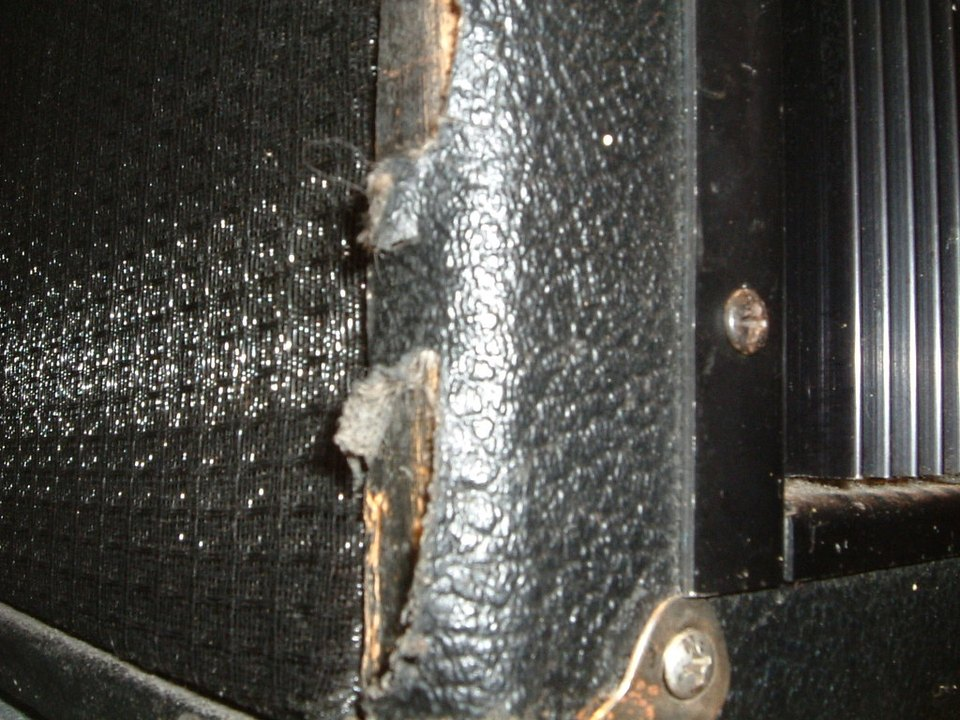
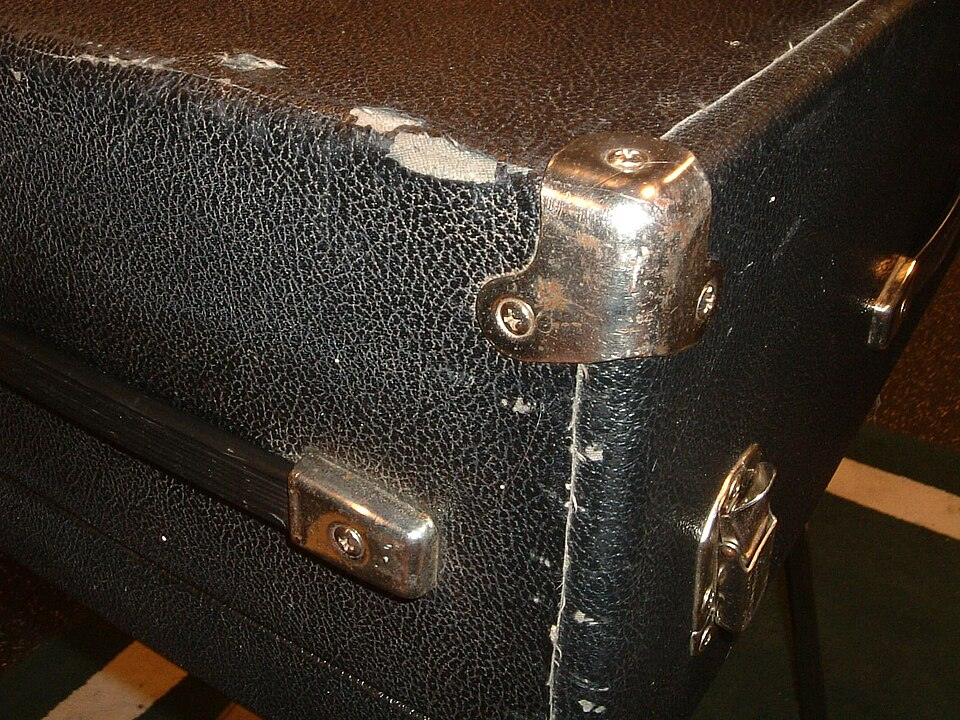
Restyle five music: tolex, grille cloth, wound string, plectrum, gaffer tape

diff --git a/data.js b/data.js
@@ -4681,40 +4681,45 @@ window.MATERIALS = [
 },
 {
   id: "tolex", cat: "music", name: "Tolex",
-  sub: "grained vinyl on a cloth backing", img: "tolex",
-  hook: "The covering on a guitar amplifier is a sheet of PVC on a woven backing, embossed with a grain — levant, bronco, elephant — and contact-cemented over the plywood with the corners folded like a parcel. It is there because it is cheap, because it wipes clean, and because it hides every joint and every screw head in a box that was built in an afternoon. It is also the part that shows the miles: the vinyl is thinnest where it was stretched round a corner, so the wear starts at the corners and the handles, and a well-played amplifier ends up with the backing cloth showing through.",
+  sub: "grained vinyl on a cloth backing", img: "tolex", extra: ["tolex2", "tolex3"],
+  hook: "PVC on a woven backing, embossed with a grain and contact-cemented over the plywood with the corners folded like a parcel. Cheap, wipeable, and it hides every joint and screw head in a box built in an afternoon.",
+  more: "A PVC skin a few tenths of a millimetre thick is fused to a cotton scrim and embossed while hot: levant, bronco, elephant, sparkle. The cabinet maker cements both faces, lays the sheet from the middle out, slits and folds the corners like wrapping paper and tucks the edges under the baffle. The costs: the vinyl is thinnest where it stretched round a corner, so the wear starts at the corners and the handle and a gigged amplifier ends up with the scrim showing; plasticiser migrates and old tolex goes stiff, shrinks at the seams and takes a tacky bloom; a knock that would dent bare plywood tears it instead; the cement lets go in a hot van; and a recover is a strip-and-redo job few bother with, which is why worn tolex became a look.",
   stats: [["Build", "PVC skin on woven backing"], ["Fitted", "contact cement, corners folded"], ["Wears", "at corners first, where it stretched"]],
   uses: "Guitar and bass amplifier cabinets, keyboard and speaker cabinets, case coverings.",
   link: "https://en.wikipedia.org/wiki/Tolex"
 },
 {
   id: "grillecloth", cat: "music", name: "Grille cloth",
-  sub: "open-woven cotton, rayon or metallised yarn", img: "grillecloth",
-  hook: "A loudspeaker grille cloth has one acoustic requirement — that air can pass through it without noticing — and one visual one, that the driver behind it cannot be seen. Those pull in opposite directions, which is why the classics are loose weaves of cotton or rayon in dark colours, often with a metallic thread for sparkle: salt and pepper, wheat, oxford, gold. It has to be stretched taut and kept that way, because a slack cloth flutters against the baffle and buzzes on bass notes. Smoke and dust fill the weave over the years, and a clogged cloth is a cloth that resists airflow.",
+  sub: "open-woven cotton, rayon or metallised yarn", img: "grillecloth", extra: ["grillecloth2", "grillecloth3"],
+  hook: "One acoustic requirement, that air passes through unnoticed, and one visual one, that the driver cannot be seen. They pull opposite ways, which is why the classics are loose dark weaves with a glint of metal thread.",
+  more: "A loose weave of cotton, rayon or polyester, dyed dark, often with a wrapped metallic yarn, in patterns with names: salt and pepper, wheat, oxford, Vox diamond, Fender gold. It is stretched over a frame or the baffle and stapled under tension; a good cloth is nearly transparent on a meter and opaque to the eye. The costs: a slack cloth flutters against the baffle and buzzes on bass notes, and cloth sags with age and damp; smoke and dust fill the weave until it resists the air it was meant to ignore; the metallic yarns tarnish; a tear cannot be mended invisibly, so the patterns are reissued to keep old amplifiers original; and a loose weave is no protection, so a boot or a mic stand goes straight through to the cone.",
   stats: [["Needs", "low airflow resistance, high opacity"], ["Stretched", "taut, or it buzzes"], ["Clogs", "with smoke and dust"]],
   uses: "Amplifier and hi-fi speaker grilles, organ and radio fronts, acoustic panel facings.",
   link: "https://en.wikipedia.org/wiki/Guitar_amplifier"
 },
 {
   id: "woundstring", cat: "music", name: "Wound string",
-  sub: "a hexagonal steel core under a spun wrap", img: "woundstring",
-  hook: "A thick plain wire at pitch is stiff, and a stiff string sounds sharp in its upper partials and hurts to bend. So a bass string is built: a hexagonal high-carbon steel core carries all the tension, and a round wrap wire is spun over it to add mass without adding stiffness. The hexagon matters — its corners bite into the wrap so the winding cannot creep along the core when the string is bent or cut. The wrap alloy is the voice: phosphor bronze for acoustic warmth, nickel-plated steel for output under a magnetic pickup, pure nickel for something softer, flattened ribbon for players who want no finger noise.",
+  sub: "a hexagonal steel core under a spun wrap", img: "woundstring", extra: ["woundstring2", "woundstring3"],
+  hook: "A thick plain wire at pitch is stiff, sounds sharp in its partials and hurts to bend. So a bass string is built: a hexagonal steel core carries the tension, and a wrap spun over it adds mass without stiffness.",
+  more: "A steel core, drawn hexagonal, spins while a wrap wire is laid on under tension, turn against turn; the corners bite into the wrap so it cannot creep when the string is bent or cut, and the wrap alloy is the voice: phosphor bronze for acoustic warmth, nickel-plated steel for output under a magnetic pickup, pure nickel for softer, flat ribbon for no finger noise, copper for a piano bass. The costs: the wrap is a spring of thousands of turns and anything that gets between them stays, so sweat and oxide deaden a roundwound in weeks while a plain string plays on; a flatwound lasts for years and sounds like it; a kink in the core is a break waiting to happen; and tension is set by core and wrap together, so the same gauge from two makers feels different.",
   stats: [["Core", "hexagonal, carries all the tension"], ["Wrap", "phosphor bronze, nickel, or flat ribbon"], ["Why wound", "mass without stiffness"]],
   uses: "Guitar, bass and piano strings, harp and orchestral bass strings.",
   link: "https://en.wikipedia.org/wiki/String_(music)"
 },
 {
   id: "pick", cat: "music", name: "Plectrum",
-  sub: "celluloid, acetal, nylon or Ultem", img: "pick",
-  hook: "The thing that actually excites the string is a sliver of plastic, and which plastic is audible. Celluloid, the old tortoiseshell imitation, is bright and a bit clicky and wears away visibly in a few gigs. Acetal is slick and rounder. Nylon grips damp fingers and flexes, so it softens the attack. Ultem and the glass-filled stiff plastics barely flex at all and sound loud and sharp. Thickness does the rest: half a millimetre bends away from the string and spreads the transient, a millimetre and a half transfers it whole. The edge finish matters as much as the material, which is why players sand them.",
+  sub: "celluloid, acetal, nylon or Ultem", img: "pick", extra: ["pick2", "pick3"],
+  hook: "What actually excites the string is a sliver of plastic, and which plastic is audible. Celluloid is bright and clicky and wears away in a few gigs, nylon flexes and softens the attack, Ultem barely flexes at all.",
+  more: "A sheet of plastic is punched to shape and the edge tumbled or bevelled: celluloid, the old imitation of tortoiseshell and nearly the last celluloid still made; acetal, which Dunlop colour-codes by gauge as Tortex; nylon, which grips a damp hand; Ultem and glass-filled plastics for hitting the string hard. Thickness does the rest: half a millimetre bends away and spreads the transient, a millimetre and a half transfers it whole, and the bevel sets the click. The costs: celluloid wears visibly in hours, warps, and is nitrate film by another name; nylon goes slick with sweat; the stiff plastics chip; thick picks round a strummed chord and thin ones mush a picked line; and most of them end up in the sofa, which is why they are sold by the gross.",
   stats: [["Materials", "celluloid, acetal, nylon, Ultem"], ["Gauge", "0.4 mm flexes, 1.5 mm does not"], ["Also voiced", "by the bevel on the edge"]],
   uses: "Guitar, bass, mandolin and banjo picks; harpsichord jacks; plucked zithers.",
   link: "https://en.wikipedia.org/wiki/Guitar_pick"
 },
 {
   id: "gaffer", cat: "music", name: "Gaffer tape",
-  sub: "matte cloth scrim, synthetic rubber adhesive", img: "gaffer",
-  hook: "A cotton or polyester scrim coated matte black and backed with a synthetic rubber adhesive, built around three stage requirements. It tears straight by hand in both directions, so one hand can work; it does not reflect a spotlight, because anything shiny on a floor becomes a highlight; and it comes up without the baked-on film that duct tape leaves, because the adhesive is chosen to release rather than to hold forever. The price of all that is that it is not waterproof — duct tape has a polyethylene skin and gaffer tape does not — and that it costs several times as much per roll.",
+  sub: "matte cloth scrim, synthetic rubber adhesive", img: "gaffer", extra: ["gaffer2", "gaffer3"],
+  hook: "A cotton scrim coated matte over a synthetic rubber adhesive, built for three stage needs: it tears straight by hand both ways, it does not shine under a spotlight, and it comes up without the film duct tape leaves.",
+  more: "A woven cotton cloth is coated with a matte vinyl face and a thick synthetic rubber adhesive formulated to hold for a night and release clean in the morning; the cloth gives a straight tear along the weave both ways, so a rigger works it one-handed off a roll on a belt, and the matte face swallows light where a shiny tape is a highlight in a lens. The costs: it is not waterproof, duct tape has a polyethylene skin and gaffer tape does not; it costs several times as much a roll, and a tour goes through cases of it; what releases from a floor still lifts paint from a wall, and left for weeks in heat it leaves residue after all; the cheap kind is duct tape dyed black; and the marks it leaves are a trail of every set change.",
   stats: [["Carrier", "matte cloth scrim, not plastic film"], ["Tears", "straight, both ways, by hand"], ["Releases", "without the duct-tape residue"]],
   uses: "Taping down cables and setlists, marking stage positions, film and theatre rigging, repairs.",
   link: "https://en.wikipedia.org/wiki/Gaffer_tape"

diff --git a/credits.js b/credits.js
@@ -15146,15 +15146,39 @@ window.CREDITS = {
   },
   "tolex": {
     "file": "tolex.jpg",
-    "caption": "A worn-through patch of tolex on a 1977 Rhodes suitcase piano",
+    "caption": "The corner of a 1975 Rhodes: the vinyl worn through where it was stretched, the backing showing",
     "kind": "photo",
-    "title": "https://live.staticflickr.com/3/3952411_55609c552d_b.jpg",
-    "site": "Flickr",
-    "artist": "daniel spils",
+    "title": "1975 Rhodes Mark I Stage Piano 73-key (serial no.300???) with Dyna Rhodes modification - tolex wear (2005-01-07 20.52.33 by Daniel Spils).jpg",
+    "site": "Wikimedia",
+    "artist": "Daniel Spils from Seattle, USA",
     "license": "CC BY 2.0",
-    "page": "https://www.flickr.com/photos/danielspils/3952411",
+    "page": "https://commons.wikimedia.org/wiki/File:1975_Rhodes_Mark_I_Stage_Piano_73-key_(serial_no.300%3F%3F%3F)_with_Dyna_Rhodes_modification_-_tolex_wear_(2005-01-07_20.52.33_by_Daniel_Spils).jpg",
     "w": 960,
     "h": 720
+  },
+  "tolex2": {
+    "file": "tolex2.jpg",
+    "caption": "A worn-through patch on a 1977 Rhodes suitcase cabinet",
+    "kind": "photo",
+    "title": "1977 Rhodes Mark I Suitcase Piano 73-key (serial no. K610578) - tolex wear spot 1 (2005-01-29 10.00.30 by Daniel Spils).jpg",
+    "site": "Wikimedia",
+    "artist": "Daniel Spils from Seattle, USA",
+    "license": "CC BY 2.0",
+    "page": "https://commons.wikimedia.org/wiki/File:1977_Rhodes_Mark_I_Suitcase_Piano_73-key_(serial_no._K610578)_-_tolex_wear_spot_1_(2005-01-29_10.00.30_by_Daniel_Spils).jpg",
+    "w": 960,
+    "h": 720
+  },
+  "tolex3": {
+    "file": "tolex3.jpg",
+    "caption": "A 1960s Teisco in black-on-red sparkle vinyl: the covering as decoration",
+    "kind": "product",
+    "title": "TEISCO 74R guitar amp (1960s, black-on-red cover) - Front angled (2006-12-14 12.05.13 by Ian Abbott).jpg",
+    "site": "Wikimedia",
+    "artist": "Ian Abbott from Santa Clara, California, USA",
+    "license": "CC BY-SA 2.0",
+    "page": "https://commons.wikimedia.org/wiki/File:TEISCO_74R_guitar_amp_(1960s,_black-on-red_cover)_-_Front_angled_(2006-12-14_12.05.13_by_Ian_Abbott).jpg",
+    "w": 960,
+    "h": 638
   },
   "grillecloth": {
     "file": "grillecloth.jpg",
@@ -15168,17 +15192,65 @@ window.CREDITS = {
     "h": 771,
     "site": "Wikimedia"
   },
+  "grillecloth2": {
+    "file": "grillecloth2.jpg",
+    "caption": "Four amplifiers, four cloths: gold, salt and pepper, black basket weave",
+    "kind": "product",
+    "title": "1998 Fender Woody Jr, Serial No. B-050344 (Bonhams auction 19226, lot 98) & Music Man, Marshall, Pignose.jpg",
+    "site": "Wikimedia",
+    "artist": "Deidre Woollard",
+    "license": "CC BY 2.0",
+    "page": "https://commons.wikimedia.org/wiki/File:1998_Fender_Woody_Jr,_Serial_No._B-050344_(Bonhams_auction_19226,_lot_98)_%26_Music_Man,_Marshall,_Pignose.jpg",
+    "w": 960,
+    "h": 643
+  },
+  "grillecloth3": {
+    "file": "grillecloth3.jpg",
+    "caption": "An early tweed Fender with its brown linen cloth",
+    "kind": "product",
+    "title": "A very early Fender guitar amp. Tweed, 2 knobs. IMG 0873 (52454602188).jpg",
+    "site": "Wikimedia",
+    "artist": "Bill Abbott",
+    "license": "CC BY-SA 2.0",
+    "page": "https://commons.wikimedia.org/wiki/File:A_very_early_Fender_guitar_amp._Tweed,_2_knobs._IMG_0873_(52454602188).jpg",
+    "w": 960,
+    "h": 720
+  },
   "woundstring": {
     "file": "woundstring.jpg",
+    "caption": "Piano bass strings: copper wrap spun turn against turn over a steel core, the same build at a larger scale",
+    "kind": "structure",
+    "title": "Piano string detail.jpg",
+    "site": "Wikimedia",
+    "artist": "Frost Nova from Australia",
+    "license": "CC BY 2.0",
+    "page": "https://commons.wikimedia.org/wiki/File:Piano_string_detail.jpg",
+    "w": 960,
+    "h": 720
+  },
+  "woundstring2": {
+    "file": "woundstring2.jpg",
+    "caption": "Flatwound bass strings: a flattened ribbon wrap, no finger noise and a duller voice",
+    "kind": "structure",
+    "title": "Flatwound 01.JPG",
+    "site": "Wikimedia",
+    "artist": "jd",
+    "license": "CC BY-SA 3.0",
+    "page": "https://commons.wikimedia.org/wiki/File:Flatwound_01.JPG",
+    "w": 960,
+    "h": 638
+  },
+  "woundstring3": {
+    "file": "woundstring3.jpg",
     "caption": "A worker at a string winding machine, finished strings in hand",
     "kind": "process",
     "title": "Guitar string manufacturing at Cleartone Strings.jpg",
+    "site": "Wikimedia",
     "artist": "ScottS1998",
     "license": "CC BY 4.0",
     "page": "https://commons.wikimedia.org/wiki/File:Guitar_string_manufacturing_at_Cleartone_Strings.jpg",
     "w": 960,
-    "h": 723,
-    "site": "Wikimedia"
+    "h": 723
   },
   "pick": {
     "file": "pick.jpg",
@@ -15192,17 +15264,65 @@ window.CREDITS = {
     "h": 720,
     "site": "Wikimedia"
   },
+  "pick2": {
+    "file": "pick2.jpg",
+    "caption": "Tortoiseshell-pattern celluloid picks, the imitation that outlived the original",
+    "kind": "product",
+    "title": "Celluloid Picks.jpg",
+    "site": "Wikimedia",
+    "artist": "Urban Versis 32",
+    "license": "CC BY-SA 4.0",
+    "page": "https://commons.wikimedia.org/wiki/File:Celluloid_Picks.jpg",
+    "w": 960,
+    "h": 720
+  },
+  "pick3": {
+    "file": "pick3.jpg",
+    "caption": "Acetal picks colour-coded by thickness, 0.5 to 1.14 mm",
+    "kind": "product",
+    "title": "Various Dunlop Tortex picks.jpg",
+    "site": "Wikimedia",
+    "artist": "Rachmaninoff",
+    "license": "CC BY-SA 3.0",
+    "page": "https://commons.wikimedia.org/wiki/File:Various_Dunlop_Tortex_picks.jpg",
+    "w": 960,
+    "h": 720
+  },
   "gaffer": {
     "file": "gaffer.jpg",
+    "caption": "A roll of black gaffer tape, the cloth weave showing at the lifted end",
+    "kind": "product",
+    "title": "Black gaffer tape.jpg",
+    "site": "Wikimedia",
+    "artist": "Marie-Lan Nguyen",
+    "license": "CC BY 2.5",
+    "page": "https://commons.wikimedia.org/wiki/File:Black_gaffer_tape.jpg",
+    "w": 960,
+    "h": 768
+  },
+  "gaffer2": {
+    "file": "gaffer2.jpg",
     "caption": "Shelves of gaffer tape in a film expendables shop",
     "kind": "product",
     "title": "Gaffer Tape, Black, White and Gray.jpg",
+    "site": "Wikimedia",
     "artist": "Robert.Harker",
     "license": "CC BY 4.0",
     "page": "https://commons.wikimedia.org/wiki/File:Gaffer_Tape,_Black,_White_and_Gray.jpg",
     "w": 960,
-    "h": 911,
-    "site": "Wikimedia"
+    "h": 911
+  },
+  "gaffer3": {
+    "file": "gaffer3.jpg",
+    "caption": "Black and orange: the second colour is for marks that must be seen",
+    "kind": "product",
+    "title": "Black and Orange Gaffer Tape.jpg",
+    "site": "Wikimedia",
+    "artist": "Lionel Allorge",
+    "license": "CC BY-SA 3.0",
+    "page": "https://commons.wikimedia.org/wiki/File:Black_and_Orange_Gaffer_Tape.jpg",
+    "w": 960,
+    "h": 640
   },
   "drumstick": {
     "file": "drumstick.jpg",

diff --git a/tools/searchlog.md b/tools/searchlog.md
@@ -1824,3 +1824,11 @@ tungsten filament, the zinc anode, indium. Searched and not added:
 - `grillesteel`: dished grille kept; `Perforated steel.jpg` and `Lochblech (2) (24980540967).jpg` (rusting holes) added. `Mild Steel Perforated Sheet - Kolkata ...` is a second rust sheet; `20200302 Lochblech.jpg` is a waste bin; `Fender Twin Reverb Blonde.jpg` is the grillecloth card's; `M0354 2-103-54 2.jpg` is 831 px; `speaker grille perforated steel`, `Lochblech Lautsprecher`, `microphone grille mesh` nothing.
 - `surround`: JBL midrange kept; `LS3 without grilles.jpg` (KEF B110) and `Logitech X530 Speakers.jpg` added. `2016 Kolumna głośnikowa Altus 110.jpg` and `Sony MDR CD30 - loudspeaker-8977.jpg` are spares; `ウーハー.jpg` is 800 px; no photograph of rotted foam on Commons (`foam surround rot`, `loudspeaker foam surround disintegrated`, `refoam`, `Sicke Lautsprecher` nothing).
 - `roadcase`: removable-lid case kept; `Nuit Boréale 2013 011.jpg` (cases at the truck) and `Road-case-custom-foam-vol-case.jpg` (foam interior) added. `Road cases for backstage.jpg`, `Road-case-shelves-vol-case.jpg`, `Transport-cases.jpg` and `Martin Hannett's effect rack ...` are spares; `flight case hardware corner`, `flight case butterfly latch`, `ball corner case` nothing.
+
+## Batch 98 restyle (tolex, grillecloth, woundstring, pick, gaffer)
+
+- `tolex`: Flickr 1024 px wear patch replaced by the same photographer's Commons set: 1975 Rhodes corner wear (1600 px) as main, the 1977 wear spot as extra, plus `TEISCO 74R ... black-on-red cover` for a patterned covering. `Fender Hot Rod DeVille 410 III - Tolex is nice.jpg` is 800 px; `Fender Telecaster and Blues Junior Amp` and `Ampeg Portaflex B-15N` are spares; `tolex vinyl covering`, `amplifier cabinet vinyl worn`, `Kunstleder Verstärker`, `amp head tolex close` nothing.
+- `grillecloth`: blonde Twin kept; `1998 Fender Woody Jr ... & Music Man, Marshall, Pignose.jpg` (several cloths) and `A very early Fender guitar amp. Tweed, 2 knobs` added. `Blonde twin-amp.jpg` is 640 px; `grill cloth guitar amp`, `speaker grille fabric close`, `Vox diamond grille cloth`, `Bespannstoff Lautsprecher`, `Lautsprecherstoff` nothing; `grille cloth` alone returns car radios.
+- `woundstring`: Cleartone winding-machine photo demoted to extra (the strings are tiny at card size); `Piano string detail.jpg` (1280 px, copper wrap close) is the main and `Flatwound 01.JPG` the second extra. `Ernie Ball Regular Slinky` is a packet; `Double bass gut strings` is a spare; `Rolling Shutter Cello Strings` is an effect; `guitar string macro`, `bass string roundwound`, `string winding core hex` nothing.
+- `pick`: assorted picks kept; `Celluloid Picks.jpg` and `Various Dunlop Tortex picks.jpg` added. `Tortoiseshell Thumb Pick.jpg` (MET, real shell) is small at card size; `Pick thickness.jpg` is mostly caliper; `17 Assorted Guitar Picks` and `V-Pick Group` are spares; `Kurt Cobain's guitar pick` is a framed museum piece; `guitar pick macro`, `guitar pick worn edge`, `nylon pick` nothing.
+- `gaffer`: shop shelves demoted to extra; `Black gaffer tape.jpg` (roll with the cloth showing) is the main and `Black and Orange Gaffer Tape.jpg` the second extra. `Gaff tape.jpg` is a plain roll on carpet; `13-01-02-inventur-wmde-blitz-06.jpg` is tesa duct tape; no stage photo of taped cables on Commons (`gaffer tape stage`, `cable taped floor gaffer`, `stage cables taped down`, `spike tape stage` nothing; `Gaffa Tape` returns a band).

diff --git a/README.md b/README.md
@@ -564,7 +564,7 @@ in `fonts/OFL.txt`.
 - **22 show a close relative** — Wood's metal for Field's metal, PFA tubing for FEP, fluorite for
   optical calcium fluoride, a superhydrophobic droplet for SLIPS, a printed sand mould for
   furan-bonded sand, a GAGG:Ce scintillator for GGG, and a cut-resistant glove for Vectran.
-- **27 show how it is made** — melt spinning for Metglas, nanotube spinning for CNT yarn, catalyst
+- **26 show how it is made** — melt spinning for Metglas, nanotube spinning for CNT yarn, catalyst
   spraying for Nafion, cold spray mid-deposition for cold-spray powder, hand needle felting for
   needle-punched felt, two Markforged X7 machines for continuous fibre printing, and the loom or
   knitting machine itself for Jacquard weave, warp knitting and whole-garment knitting.
@@ -573,7 +573,7 @@ No entry falls back to a drawn swatch, and none shows a molecular or crystal str
 material itself has never been photographed freely, the card carries the closest real object
 instead.
 
-A few cards carry more than one view, paged on the card itself — 850 extra views so far: the raw material
+A few cards carry more than one view, paged on the card itself — 860 extra views so far: the raw material
 beside the finished part (Nitinol wire and the cut spoons), the shell beside the inlay (nacre),
 the harvest beside the bark (cork), the property beside the thing (a brick resting on a slab of
 aerogel), the two unmixed sticks beside what a sculptor and a museum made of them (epoxy putty).
